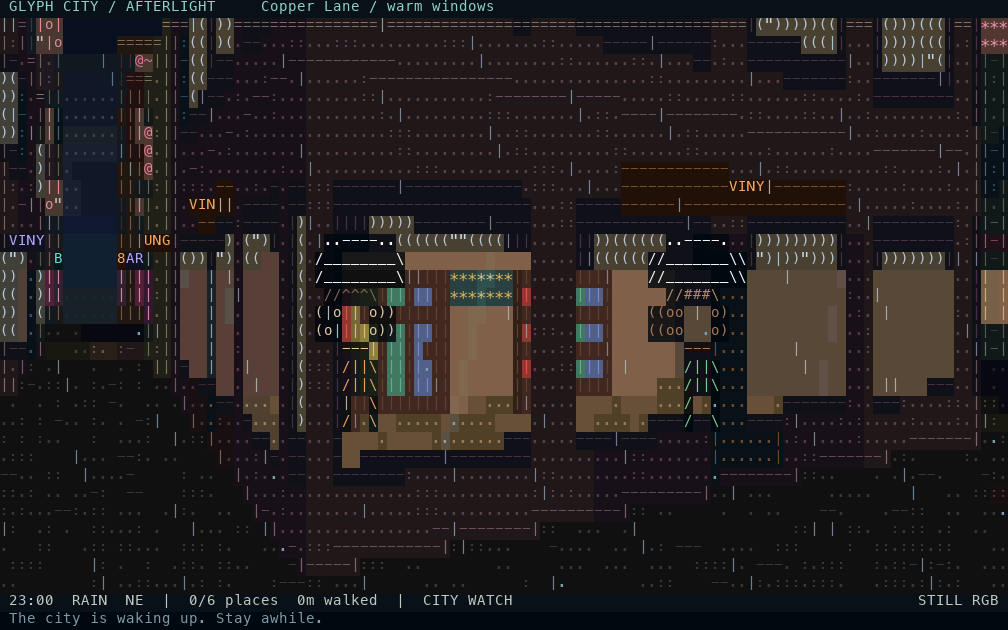
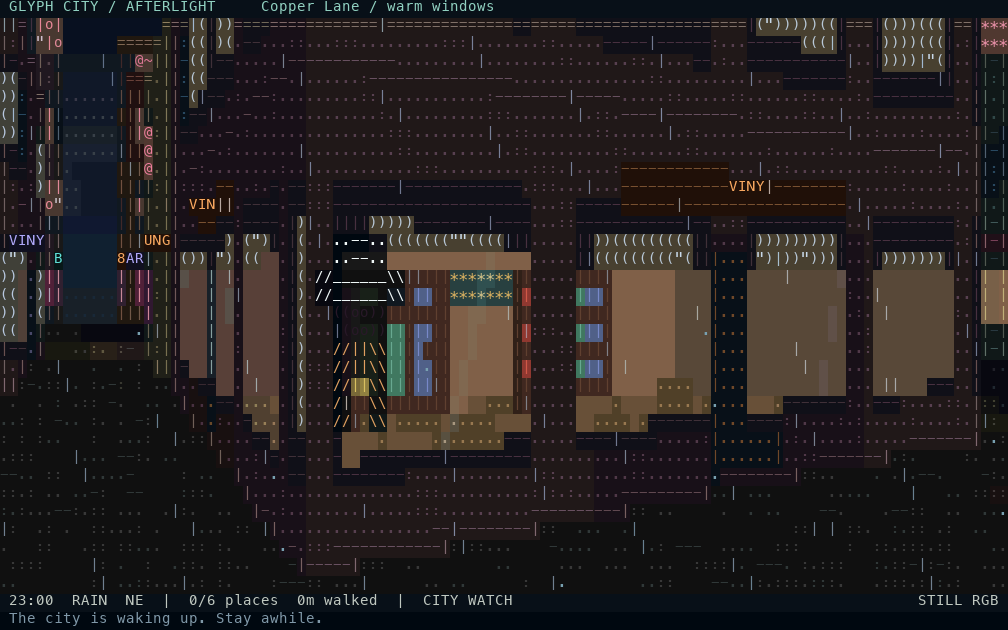
Simplify NPC rendering for clearer scenes

Changed region(s): [[0.3075, 0.3619, 0.3998, 0.6937], [0.6458, 0.3619, 0.7381, 0.5429], [0.6766, 0.5429, 0.7073, 0.6635]]

diff --git a/glyph_city/render.py b/glyph_city/render.py
@@ -557,24 +557,15 @@ class Renderer:
                 art=('  o  ',' [o] ','  |  ',' / \\ ')
             elif p.activity=='tending flowers':
                 art=('   ',' o_','/|/','/ \\'); height=1.2
-            # At close range reserve extra cells for hair, eyes and a face
-            # instead of using the compact walking glyph.
-            close_detail=height*self.fy/max(z,.35)>=7.0
-            identity=int(p.phase*13)%3
-            hair=(' /^^\\ ',' /~~\\ ',' /##\\ ')[identity]
-            eyes='(-  -) ' if (self.world.time+p.phase)%5<.16 else '(o  o) '
+            # Use one small readable face at very close range. More elaborate
+            # hair and eye art multiplied across terminal cells and made the
+            # whole fixed camera composition noisy.
+            close_detail=height*self.fy/max(z,.35)>=10.0
             if close_detail and p.umbrella:
-                art=(' .---. ','/_____\\',hair,eyes,'  --   ','  /|\\  ','  / \\  ')
+                art=(' .-. ','/___\\',' (o) ',' /|\\ ',' / \\ ')
             elif close_detail:
-                if p.activity in ('reading','sorting books'):
-                    art=(hair,eyes,'  --   ',' [=]  ','  |   ',' / \\  ')
-                elif p.activity=='playing music':
-                    art=(hair,eyes,'  --   ',' /|D\\ ',' /|   ',' / \\  ')
-                elif p.activity=='taking photos':
-                    art=(hair,eyes,'  --   ',' [o]  ','  |   ',' / \\  ')
-                else:
-                    art=(hair,eyes,'  --   ',' /|\\  ',' /|   ' if pose and p.activity=='walking' else '  |   ',' / \\  ')
-                width=1.08; height=2.2
+                art=(' ^ ','(o)','/|\\','/ \\ ')
+                width=.82; height=1.95
             # Crowd LOD keeps a fixed composition readable. Far residents
             # remain visible as moving beacons, while only nearby residents
             # spend cells on faces and clothing detail.
@@ -618,16 +609,14 @@ class Renderer:
                 elif p.kind=='flowers': color=(230,139,163) if ar<2 else (150,125,103)
                 elif p.kind=='person':
                     role_color=PERSON_COLORS.get(getattr(p,'role',''),p.color)
-                    hair_color=((143,104,78),(92,85,109),(190,152,105))[identity]
-                    skin_color=((255,214,175),(213,165,130),(184,130,99))[identity]
                     if p.umbrella:
                         # The canopy catches sky light; the body stays a
                         # distinct role color beneath it.
                         color=((245,250,255) if ar<2 else
-                               hair_color if close_detail and ar==2 else
-                               skin_color if close_detail and ar in (3,4) else role_color)
+                               (48,34,45) if close_detail and ar==2 else role_color)
                     elif close_detail:
-                        color=(hair_color if ar==0 else skin_color if ar in (1,2) else role_color)
+                        color=((48,34,45) if ar==0 else
+                               (255,214,175) if ar==1 else role_color)
                     else:
                         color=(255,214,175) if ar==0 else role_color
                 luminous=(p.kind=='lamp' and ar<3) or (p.kind=='car' and ch=='o')

diff --git a/glyph_city/city.py b/glyph_city/city.py
@@ -153,10 +153,9 @@ class City:
                 self.props.extend((Prop(x,86.5,'rail'),Prop(x,96.5,'rail')))
         for x, y in ((57,57),(63,57),(57,63),(63,63)):
             self.props.append(Prop(x,y,'flowers'))
-        # A slightly denser population gives the watch mode visible motion in
-        # more than one district while the living simulation still queues
-        # people on the shared walking network.
-        for _ in range(40):
+        # Keep enough residents for a living city while leaving visual space
+        # for facades, signs and the route itself in a terminal frame.
+        for _ in range(28):
             a = rng.choice(AVENUES)
             y = rng.uniform(5,SIZE-5)
             x = a + rng.choice((-3.3,3.3))
